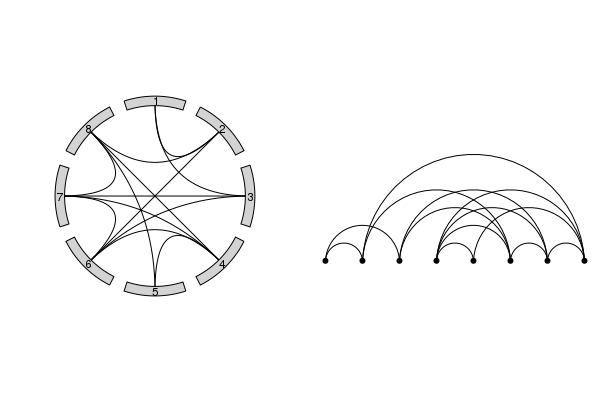
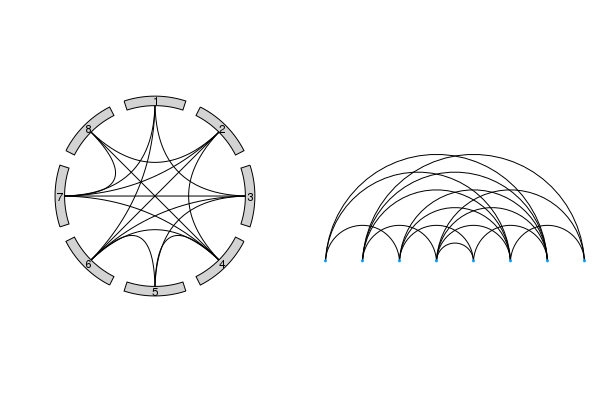
Snapshot of branch master taken on 2019-07-01T09:28:00.109-04:00 from "https://github.com/UnofficialJuliaMirror/PlotRecipes.jl-0e44f1d2-4516-5e7d-9182-378ae59e766c"

diff --git a/README.md b/README.md
@@ -21,9 +21,7 @@ end
 
 graphplot(A,
           node_weights = 1:n,
-          marker = (:YlOrRd, :rect),
-          marker_z = 1:n,
-          markersize = 3,
+          nodecolor = range(colorant"yellow", stop=colorant"red", length=n),
           names = 1:n,
           linecolor = :darkgrey,
        )
@@ -91,7 +89,7 @@ function mysum(list)
 end
 )
 
-plot(code, fontsize=5, shorten=0.2, axis_buffer=0.15)
+plot(code, fontsize=5, shorten=0.01, axis_buffer=0.15, nodeshape=:rect)
 
 ```
 
@@ -103,7 +101,7 @@ plot(code, fontsize=5, shorten=0.2, axis_buffer=0.15)
 using GraphRecipes
 using Plots
 
-plot(AbstractFloat, method=:tree, fontsize=4)
+plot(AbstractFloat, method=:tree, fontsize=4, nodeshape=:rect)
 
 ```
 ![](assets/julia_type_tree.png)
